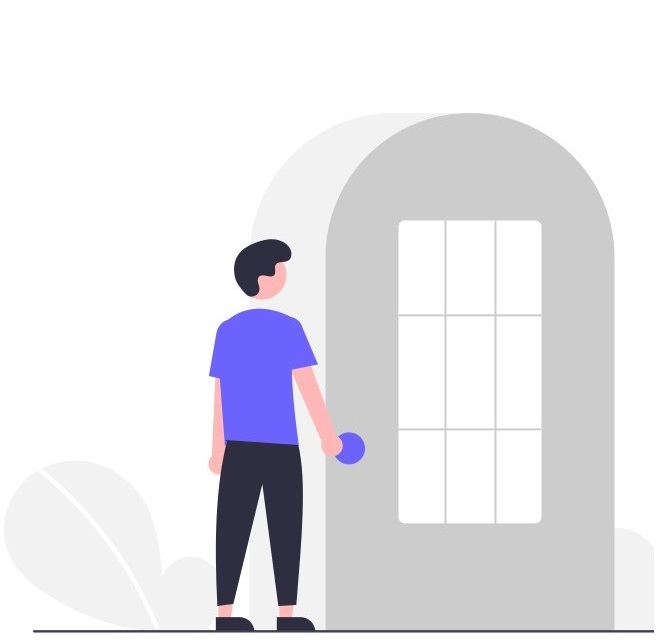
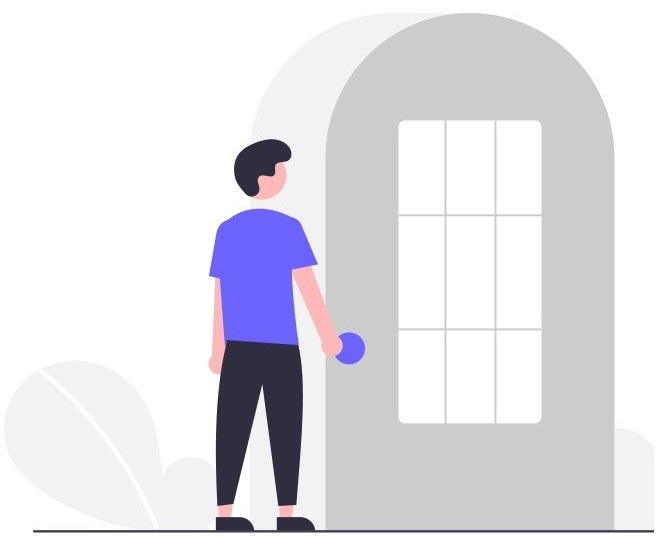
login view

diff --git a/public/css/style.css b/public/css/style.css
@@ -49,6 +49,13 @@
     background-position: center;
 }
 
+.img-login {
+    width: 80%;
+    height: 20%;
+    margin-left: auto;
+    margin-right: auto;
+}
+
 .title-artikel {
     color: #000000;
     font-weight: bold;

diff --git a/resources/views/admin/login.blade.php b/resources/views/admin/login.blade.php
@@ -16,10 +16,11 @@
             <div id="layoutAuthentication_content">
                 <main>
                     <div class="container mb-5">
-                        <div class="row justify-content-around">
-                            <div class="col vh-100">
+                        <div class="row">
+                            <div class="col vh-100 d-flex align-items-center justify-content-center">
+                            {{-- <div class="col-lg-6"> --}}
                                 <a>
-                                    <img src="{{asset('images/logiin.jpg')}}" style="aspect-ratio: auto" class="align-self-center" alt="...">
+                                    <img src="{{asset('images/logiin.jpg')}}" style="img-login" class="align-self-center" alt="...">
                                 </a> 
                             </div>
                             <div class="col align-self-center">
